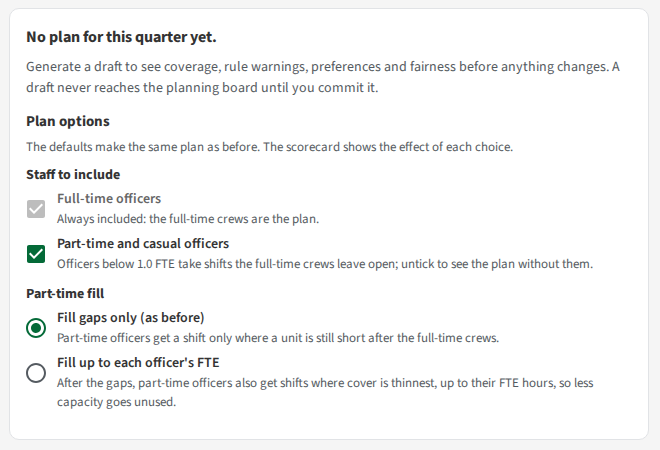
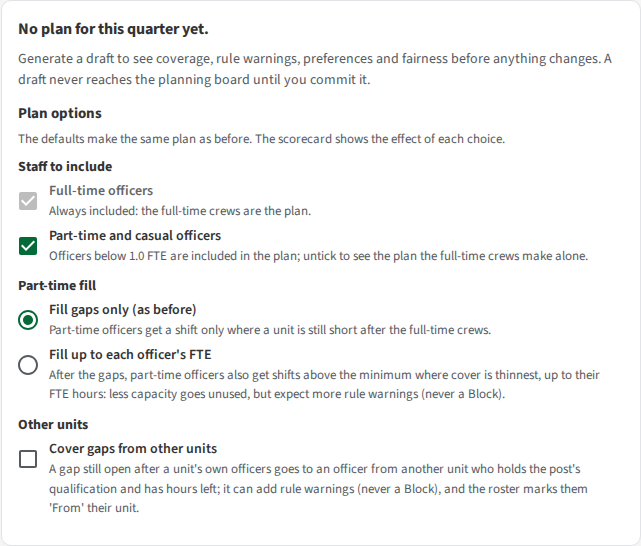
SC: pacing test checks only the top-up shifts; guide screenshots for three options, cross-unit line and From marker

Changed region(s): [[0.0312, 0.2489, 0.936, 0.9644], [0.0312, 0.0311, 0.9672, 0.2178]]

diff --git a/api/shiftcircle-api/src/test/java/ca/shiftcircle/api/planner/PlanGeneratorOptionsTest.java b/api/shiftcircle-api/src/test/java/ca/shiftcircle/api/planner/PlanGeneratorOptionsTest.java
@@ -141,7 +141,6 @@ class PlanGeneratorOptionsTest {
 
   @Test
   void partTimeFillUpToFteSpreadsShiftsEvenlyThroughThePeriod() {
-    // A unit the full-timers cover alone, so every part-time shift comes from the top-up.
     UUID unitId = UUID.nameUUIDFromBytes("unit:E".getBytes());
     List<PlanGenerator.Unit> units =
         List.of(new PlanGenerator.Unit(unitId, "E", "E", false, false, Map.of("DAY", 1, "EVENING", 1)));
@@ -152,29 +151,39 @@ class PlanGeneratorOptionsTest {
     PlanGenerator.Employee partTimer = employee("E", unitId, "P0", 0.8, 0, 20);
     employees.add(partTimer);
     Facility facility = new Facility(units, employees);
-    assertThat(generate(facility, PlanGenerator.Options.DEFAULT).assignments())
-        .noneMatch(a -> a.employeeId().equals(partTimer.id()));
+    // The gap fill places the part-timer unpaced; the top-up adds the rest, paced.
+    Set<LocalDate> gapShifts =
+        generate(facility, PlanGenerator.Options.DEFAULT).assignments().stream()
+            .filter(a -> a.employeeId().equals(partTimer.id()))
+            .map(PlanGenerator.Assignment::date)
+            .collect(Collectors.toSet());
 
     PlanGenerator.Result upTo = generate(facility, new PlanGenerator.Options(true, true, false));
     double target = 0.8 * 80;
     double[] cumulative = new double[PlanGenerator.PERIODS];
-    List<PlanGenerator.Assignment> shifts =
+    int added = 0;
+    for (PlanGenerator.Assignment shift :
         upTo.assignments().stream()
             .filter(a -> a.employeeId().equals(partTimer.id()))
             .sorted(java.util.Comparator.comparing(PlanGenerator.Assignment::date))
-            .toList();
-    for (PlanGenerator.Assignment shift : shifts) {
+            .toList()) {
       long day = ChronoUnit.DAYS.between(PlanGenerator.FROM, shift.date());
       int period = (int) (day / 14);
       long dayInPeriod = day % 14;
+      if (!gapShifts.contains(shift.date())) {
+        added++;
+        // A top-up shift is placed only when the period's hours so far are not ahead of an even
+        // pace: hours before it <= target x (day + 1) / 14.
+        assertThat(cumulative[period])
+            .as("%s, day %d of period %d", shift.date(), dayInPeriod, period)
+            .isLessThanOrEqualTo(target * (dayInPeriod + 1) / 14.0 + 0.001);
+      }
       cumulative[period] += 8;
-      // Placed only when not ahead of an even pace: hours so far <= target x (day + 1) / 14 + 8.
-      assertThat(cumulative[period])
-          .as("%s, day %d of period %d", shift.date(), dayInPeriod, period)
-          .isLessThanOrEqualTo(target * (dayInPeriod + 1) / 14.0 + 8 + 0.001);
     }
-    // And it still reaches the FTE target in every period.
-    assertThat(cumulative).containsOnly(target);
+    assertThat(added).as("the top-up added shifts").isGreaterThan(20);
+    for (double hours : cumulative) {
+      assertThat(hours).isLessThanOrEqualTo(target);
+    }
   }
 
   // --- cross-unit fill -------------------------------------------------------------------------

diff --git a/docs/user-guide/planner.md b/docs/user-guide/planner.md
@@ -48,6 +48,8 @@ What the options did on the demo data (seed 20261001, measured on 24 Nov 2026; t
 | 150 | full-time only | 687 | 5 | 10,080 h | 4,691 | n/a |
 | 150 | full-time only + other units | 529 | 119 | 10,080 h | 4,894 | 158 (203 shifts, 82 officers) |
 
+![Dataset 150 draft made with Cover gaps from other units: 72 gaps, 76 warnings, and the line 28 gaps covered from other units, 41 shifts by 26 officers](img/planner-scorecard-cross-unit.png)
+
 **What stays short, and why.** *Fill up to FTE* alone closes no gap: it only adds shifts where the minimum is already met. *Cover gaps from other units* is what closes gaps, and the scorecard keeps the reason for each gap it could not cover:
 - **Dataset 120 (38 short, none covered):** all 38 are Escort & transport evenings. Escort needs every officer on duty to hold Escort, and no free officer in another unit holds it, so all 38 are *not qualified*.
 - **Dataset 150 (72 short after 28 covered):** 46 *not qualified* (Control and Escort need every officer qualified; Control evenings and nights and Escort evenings are most of them), 14 *no hours left* (every qualified free officer is at FTE × 80 h for the pay period) and 12 *rule block* (a qualified officer with hours left was blocked, mostly by rest rules). By unit and block: Control evening 14, Escort evening 16, Unit B evening 11, Control night 8, and small numbers elsewhere.
@@ -122,6 +124,8 @@ Some gaps can't be filled without breaking a rule, so the draft leaves them open
 - A small **⚠** on a shift means a rule warning names it. Hover or focus it to read the warning, for example "Fewer than 2 days off in 7: Fewer than 2 consecutive days off in 7 days."
 - Leave shows as **Vac**, **Sick** or **Other** instead of Off (section 8).
 - An officer placed in this unit from another unit (by *Cover gaps from other units*, or as relief while their own unit is closed) has a **From Unit A** marker (their home unit) next to their name.
+
+![A draft roster row with the From Unit A marker under the officer's name](img/planner-roster-from-unit.png)
 
 ![Roster tab: Go to week, the unit list with gap counts, the collapsed All units table and the draft grid](img/planner-roster-week-picker.png)
 
